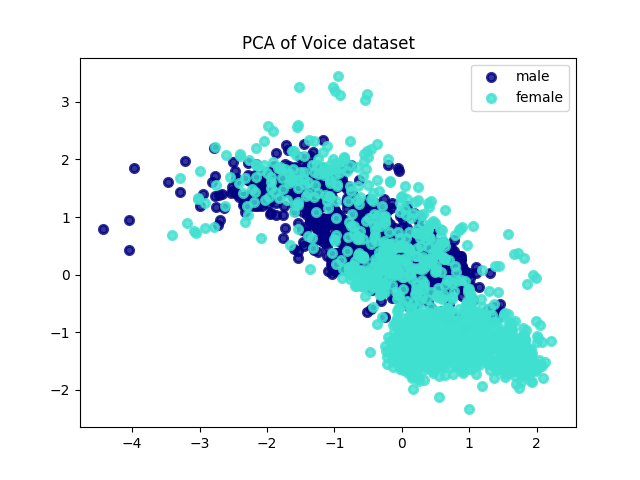
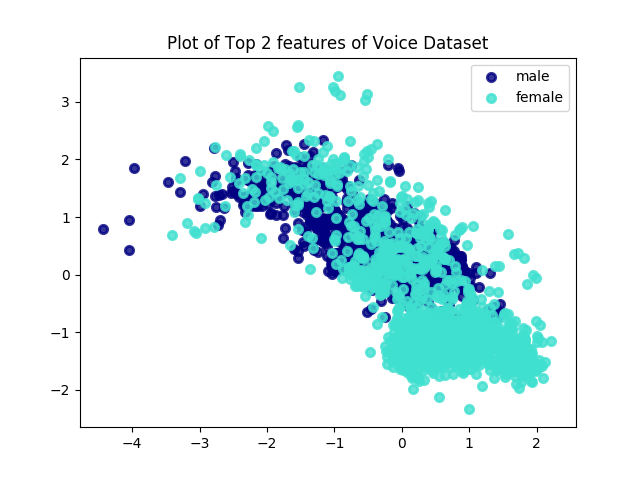
update outputs

Changed region(s): [[0.25, 0.0625, 0.7812, 0.125]]

diff --git a/models/graph_generator.py b/models/graph_generator.py
@@ -3,7 +3,7 @@ import matplotlib.pyplot as plt
 import pydotplus
 from io import StringIO
 
-def generate_graph(x_train, y_train, file_name):
+def generate_graph(x_train, y_train, file_name, title):
 	colors = ['navy', 'turquoise'] # 'darkorange'
 	for color, _class in zip(colors, ['male', 'female']):
 		# _x = x_train[y_train == _class, 0]
@@ -11,7 +11,7 @@ def generate_graph(x_train, y_train, file_name):
 		# plt.scatter(_x, _y, color=color, alpha=.8, lw=2, label=_class)
 	    plt.scatter(x_train[y_train == _class, 0], x_train[y_train == _class, 1], color=color, alpha=.8, lw=2, label=_class)
 	plt.legend(loc='best', shadow=False, scatterpoints=1)
-	plt.title('PCA of Voice dataset')
+	plt.title(title)
 	# plt.show()
 	plt.savefig('../outputs/' + file_name)
 

diff --git a/models/decision_tree.py b/models/decision_tree.py
@@ -20,7 +20,7 @@ def run_decision_tree(x_train, x_test, y_train, y_test, generate_graph = False, 
 		graph.write_pdf("../outputs/decision_tree.pdf")
 
 def plot_top_2_features(x_train, x_test, y_train, y_test):
-	generate_graph(x_train, y_train, 'dt_top_2.png')
+	generate_graph(x_train, y_train, 'dt_top_2.png', 'Plot of Top 2 features of Voice Dataset')
 
 
 if __name__ == '__main__':

diff --git a/models/pca.py b/models/pca.py
@@ -17,7 +17,7 @@ def run_pca(x_train, x_test, y_train, y_test, n_components=2, to_generate_graph 
 	x_test_new = pca.transform(x_test)
 
 	if(to_generate_graph):
-		generate_graph(x_train_new, y_train, 'pca.png')
+		generate_graph(x_train_new, y_train, 'pca.png', 'PCA(2) plot of Voice dataset')
 
 	return x_train_new, x_test_new
 
